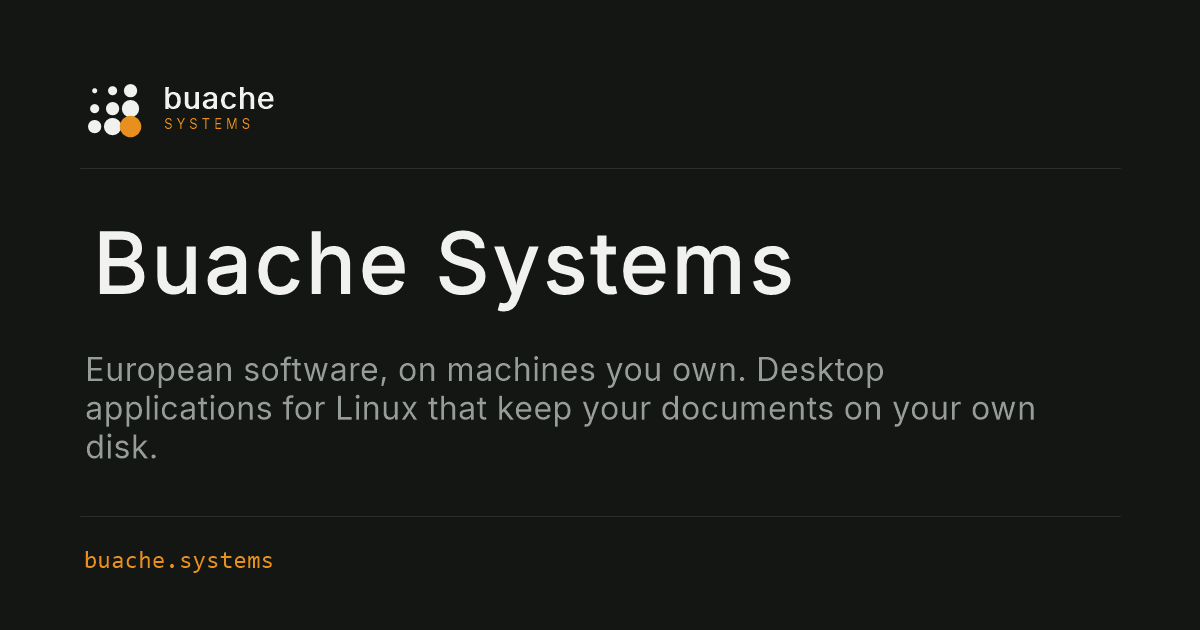
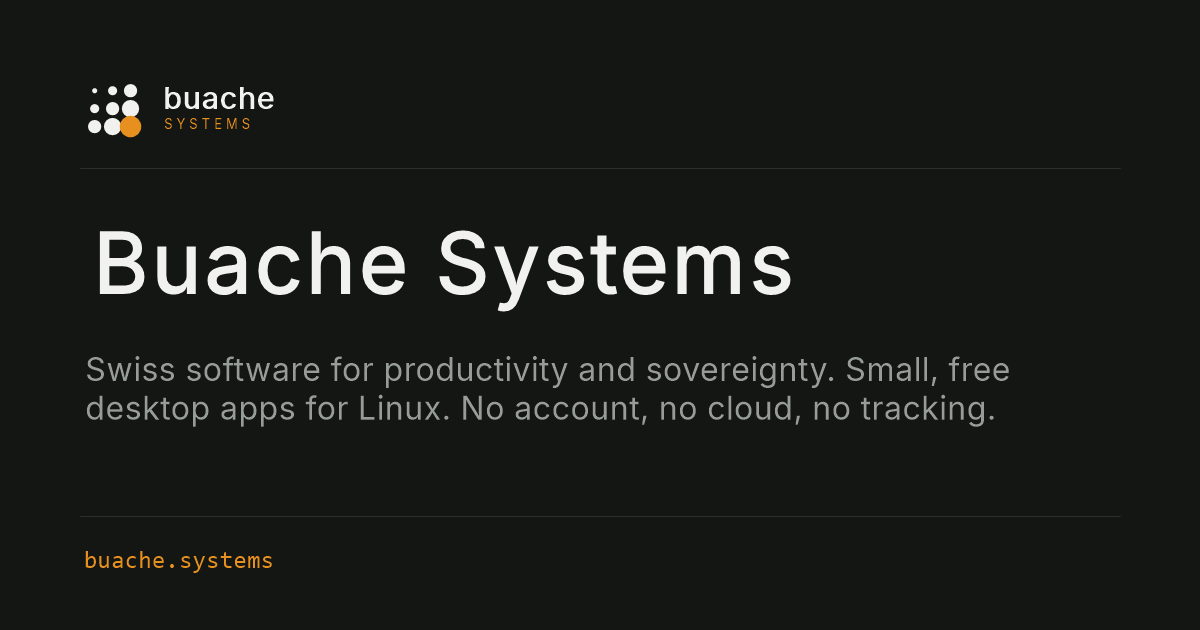
Redraw the social cards with the new wording
The home card still carried the old headline, and the three app cards
the old taglines. The og:description and og:image:alt tags follow.

Changed region(s): [[0.0617, 0.573, 0.8633, 0.7238]]

diff --git a/site/paint/index.html b/site/paint/index.html
@@ -19,12 +19,12 @@
 <meta property="og:type" content="website">
 <meta property="og:site_name" content="Buache Systems">
 <meta property="og:title" content="Paint — Buache Systems">
-<meta property="og:description" content="A simple, easy-to-use image editor. Open a picture, draw on it, save it, get on with your day.">
+<meta property="og:description" content="Open a picture, draw on it, save it. A simple image editor that fits in one window.">
 <meta property="og:url" content="https://buache.systems/paint/">
 <meta property="og:image" content="https://buache.systems/assets/img/og-paint.png">
 <meta property="og:image:width" content="1200">
 <meta property="og:image:height" content="630">
-<meta property="og:image:alt" content="Paint: a simple, easy-to-use image editor. Open a picture, draw on it, save it, get on with your day.">
+<meta property="og:image:alt" content="Paint: Open a picture, draw on it, save it. A simple image editor that fits in one window.">
 <meta name="twitter:card" content="summary_large_image">
 </head>
 <body>

diff --git a/site/shrink/index.html b/site/shrink/index.html
@@ -19,12 +19,12 @@
 <meta property="og:type" content="website">
 <meta property="og:site_name" content="Buache Systems">
 <meta property="og:title" content="Shrink — Buache Systems">
-<meta property="og:description" content="A batch image resizer that takes the constraint you actually have, and measures the result rather than estimating it.">
+<meta property="og:description" content="Make a folder of images small enough to send.">
 <meta property="og:url" content="https://buache.systems/shrink/">
 <meta property="og:image" content="https://buache.systems/assets/img/og-shrink.png">
 <meta property="og:image:width" content="1200">
 <meta property="og:image:height" content="630">
-<meta property="og:image:alt" content="Shrink: a batch image resizer that takes the constraint you actually have, and measures the result.">
+<meta property="og:image:alt" content="Shrink: Make a folder of images small enough to send.">
 <meta name="twitter:card" content="summary_large_image">
 </head>
 <body>

diff --git a/site/snipper/index.html b/site/snipper/index.html
@@ -19,12 +19,12 @@
 <meta property="og:type" content="website">
 <meta property="og:site_name" content="Buache Systems">
 <meta property="og:title" content="Snipper — Buache Systems">
-<meta property="og:description" content="Screen capture and annotation. Draw a rectangle around what matters, mark it up, and send it.">
+<meta property="og:description" content="Capture your screen, mark it up, send it.">
 <meta property="og:url" content="https://buache.systems/snipper/">
 <meta property="og:image" content="https://buache.systems/assets/img/og-snipper.png">
 <meta property="og:image:width" content="1200">
 <meta property="og:image:height" content="630">
-<meta property="og:image:alt" content="Snipper: screen capture and annotation. Draw a rectangle around what matters, mark it up, and send it.">
+<meta property="og:image:alt" content="Snipper: Capture your screen, mark it up, send it.">
 <meta name="twitter:card" content="summary_large_image">
 </head>
 <body>

diff --git a/site/index.html b/site/index.html
@@ -24,7 +24,7 @@
 <meta property="og:image" content="https://buache.systems/assets/img/og-home.png">
 <meta property="og:image:width" content="1200">
 <meta property="og:image:height" content="630">
-<meta property="og:image:alt" content="Buache Systems: European software, on machines you own. Desktop applications for Linux that keep your documents on your own disk.">
+<meta property="og:image:alt" content="Buache Systems: Swiss software for productivity and sovereignty. Small, free desktop apps for Linux. No account, no cloud, no tracking.">
 <meta name="twitter:card" content="summary_large_image">
 </head>
 <body>
